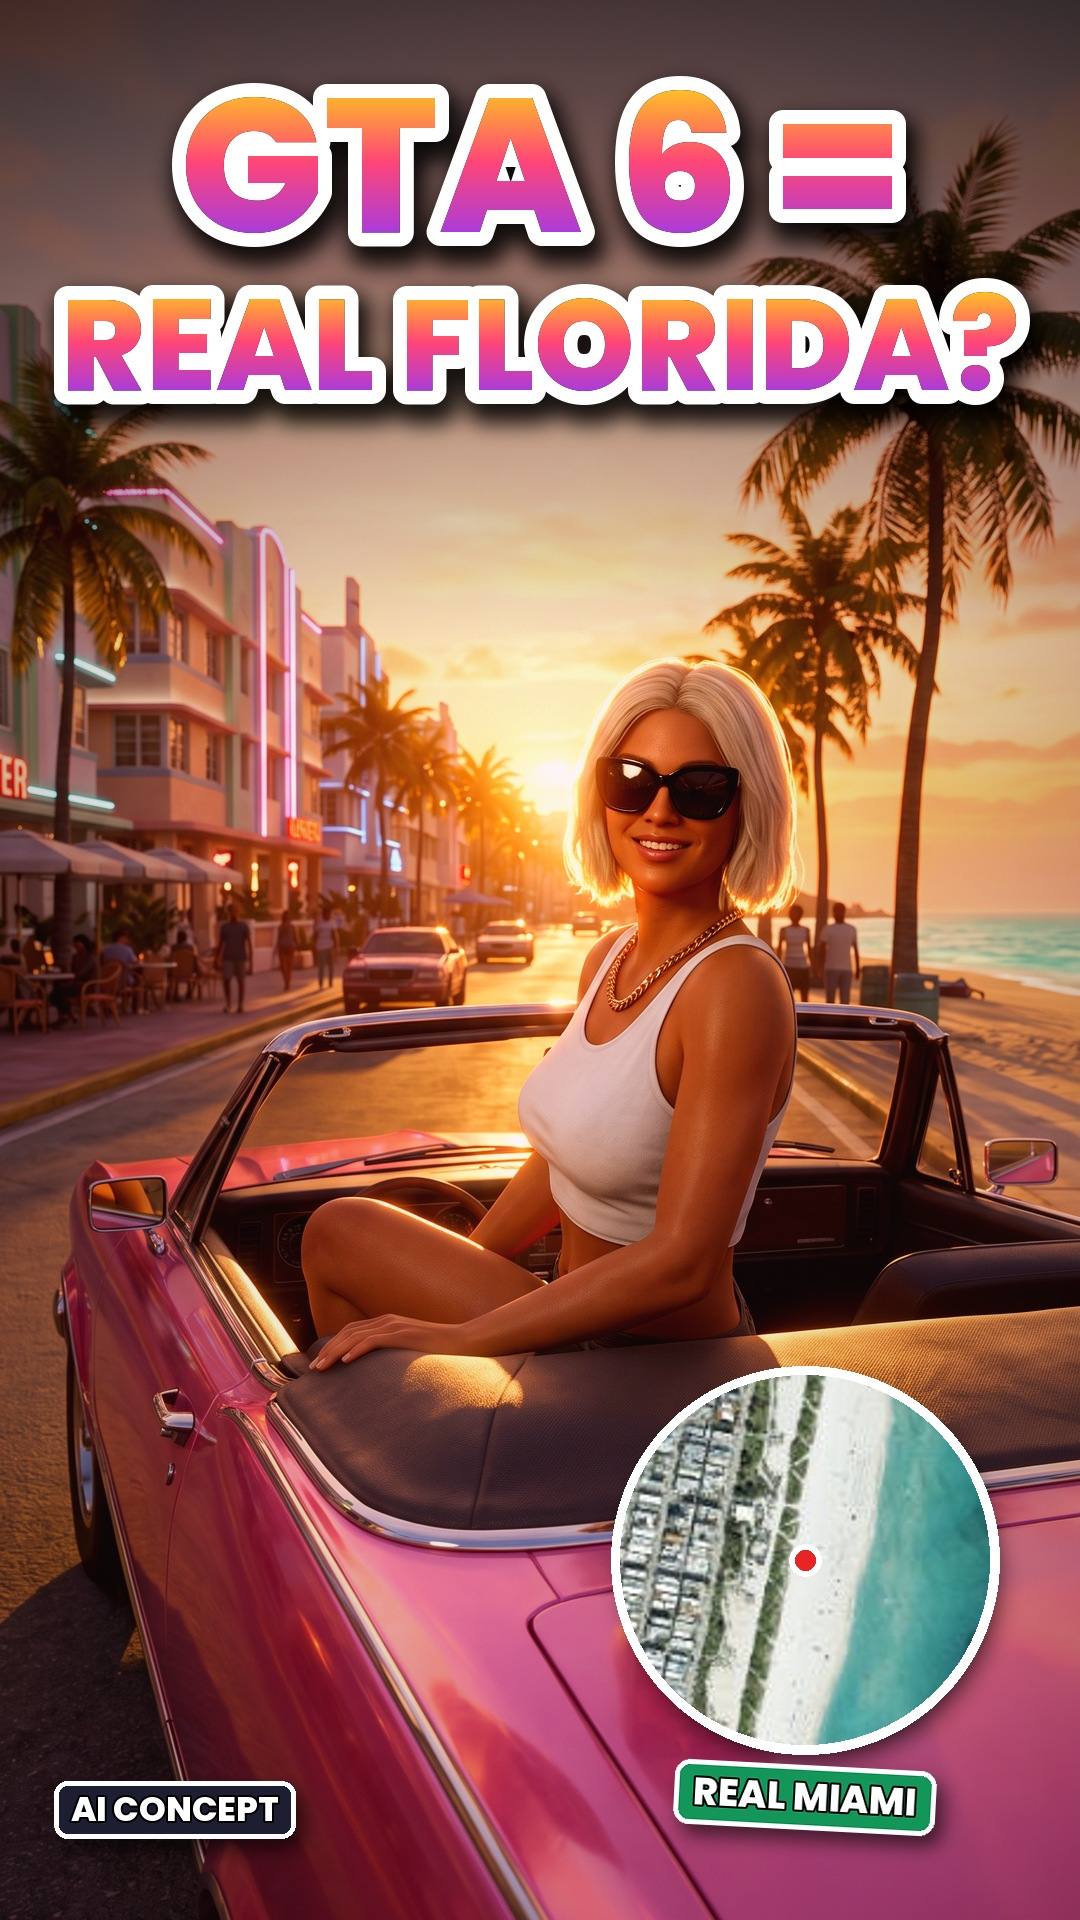
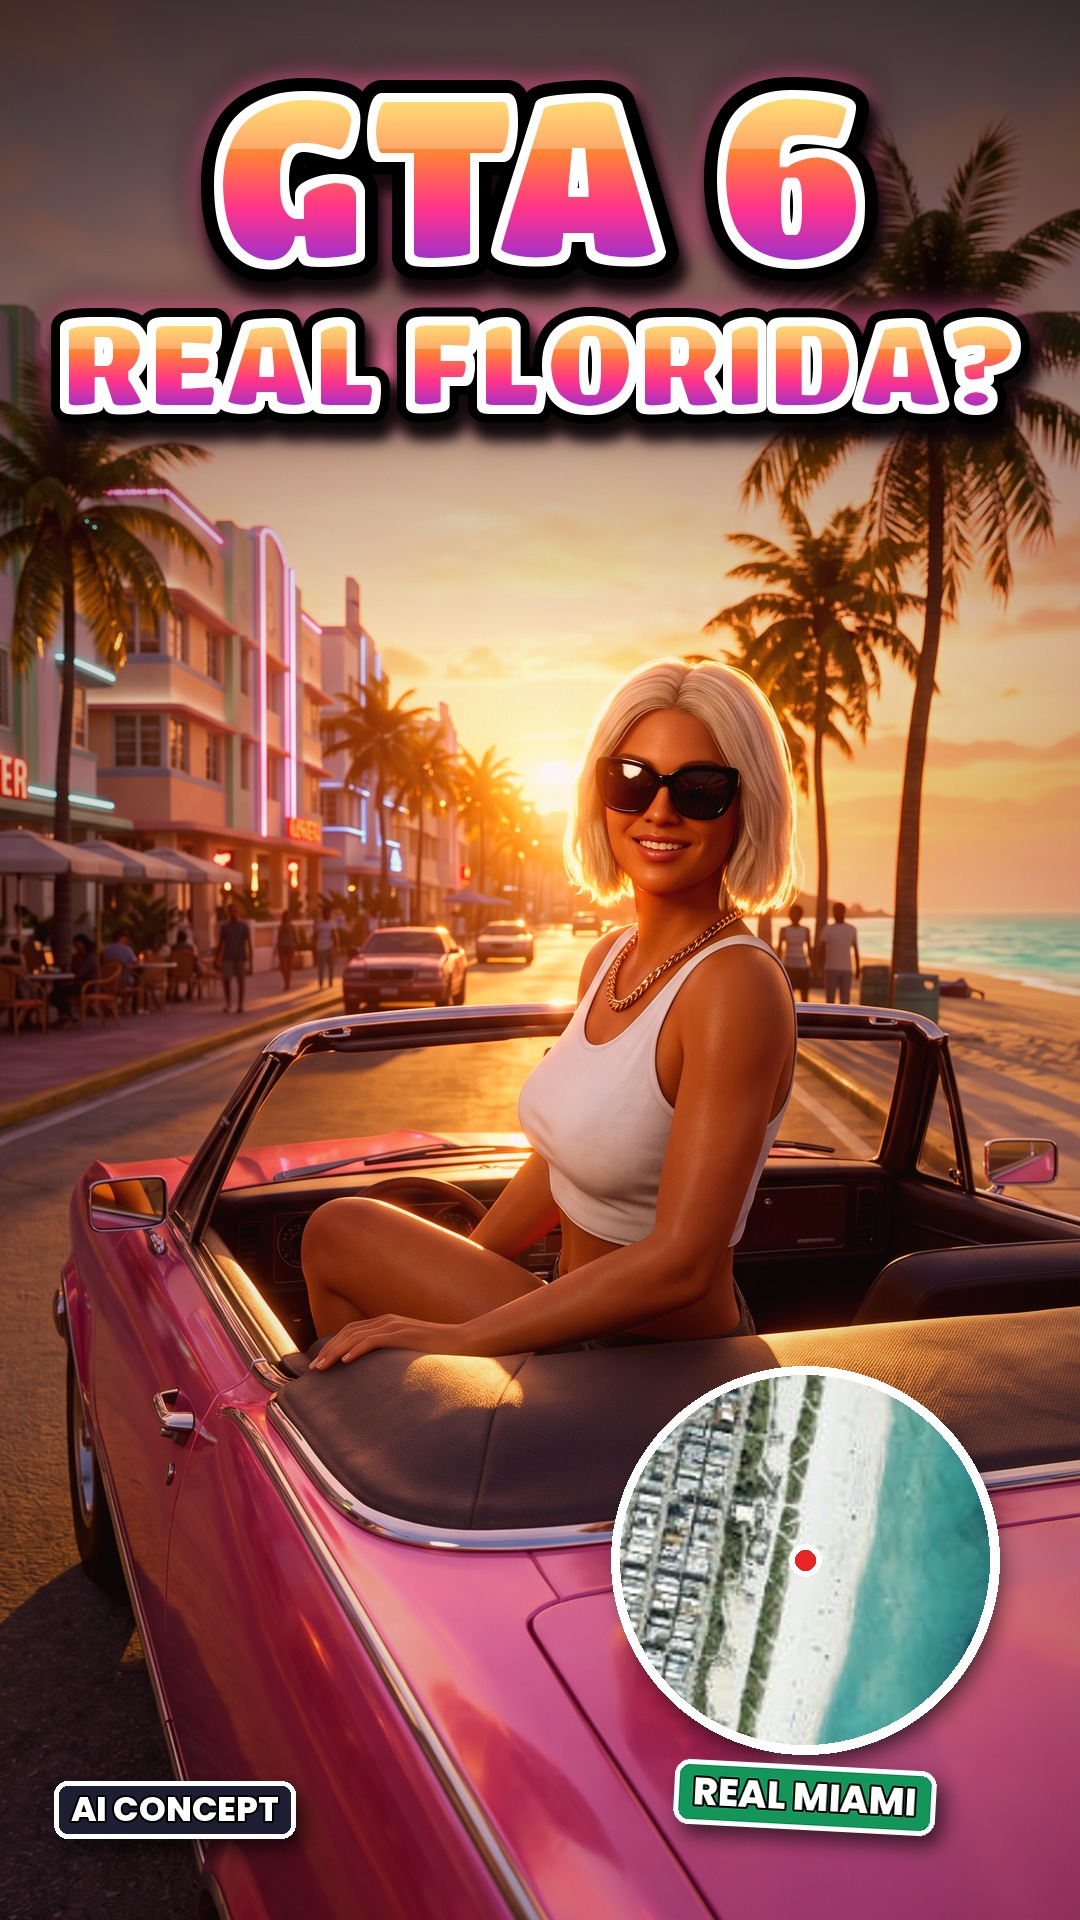
GTA 6 Short: hero cover with GTA 6-style lettering
Claude-Session: https://claude.ai/code/session_01KcWrBtThWhQ2oQ8XkNDupx

Changed region(s): [[0.0306, 0.0312, 0.9778, 0.25]]

diff --git a/map_shorts/gta6_real_places/thumb_cover_hero.py b/map_shorts/gta6_real_places/thumb_cover_hero.py
@@ -14,19 +14,28 @@ def grade(im, warm=0.10, sat=1.18, con=1.10):
     # vignette
     yy, xx = np.mgrid[0:H, 0:W]; v = 1 - 0.32 * (((xx - W / 2) / (W / 2)) ** 2 + ((yy - H / 2) / (H / 2)) ** 2) / 2
     return Image.fromarray(np.clip(a * v[..., None], 0, 255).astype(np.uint8))
-def grad_text(img, txt, cy, size, maxw=W - 110, sw=14, stops=((255, 190, 40), (255, 70, 120), (170, 60, 220))):
-    f = font(size)
-    while f.getlength(txt) > maxw: f = font(f.size - 2)
+def grad_text(img, txt, cy, size, maxw=W - 110, sw=16, stops=((255, 214, 64), (255, 132, 52), (255, 52, 140), (150, 50, 210))):
+    """GTA 6-style lettering: chunky Pricedown-like face, sunset gradient, white inner edge, thick black outline, drop glow."""
+    f = ImageFont.truetype("fonts/titan-one.ttf", int(size))
+    while f.getlength(txt) > maxw: f = ImageFont.truetype("fonts/titan-one.ttf", f.size - 2)
     m = Image.new("L", (W, H), 0); ImageDraw.Draw(m).text((W / 2, cy), txt, font=f, fill=255, anchor="mm")
-    sh = Image.new("RGBA", (W, H), (0, 0, 0, 0)); ImageDraw.Draw(sh).text((W / 2 + 6, cy + 14), txt, font=f, fill=(0, 0, 0, 220), anchor="mm", stroke_width=sw + 6, stroke_fill=(0, 0, 0, 220))
-    img.alpha_composite(sh.filter(ImageFilter.GaussianBlur(10)))
-    ImageDraw.Draw(img).text((W / 2, cy), txt, font=f, fill=(0, 0, 0, 255), anchor="mm", stroke_width=sw, stroke_fill=WHT)
+    # warm outer glow
+    glow = Image.new("RGBA", (W, H), (0, 0, 0, 0)); ImageDraw.Draw(glow).text((W / 2, cy), txt, font=f, fill=(255, 90, 160, 200), anchor="mm", stroke_width=sw + 10, stroke_fill=(255, 90, 160, 200))
+    img.alpha_composite(glow.filter(ImageFilter.GaussianBlur(16)))
+    sh = Image.new("RGBA", (W, H), (0, 0, 0, 0)); ImageDraw.Draw(sh).text((W / 2 + 5, cy + 14), txt, font=f, fill=(0, 0, 0, 230), anchor="mm", stroke_width=sw + 4, stroke_fill=(0, 0, 0, 230))
+    img.alpha_composite(sh.filter(ImageFilter.GaussianBlur(6)))
+    d = ImageDraw.Draw(img)
+    d.text((W / 2, cy), txt, font=f, fill=(0, 0, 0, 255), anchor="mm", stroke_width=sw, stroke_fill=(0, 0, 0, 255))   # black outline
+    d.text((W / 2, cy), txt, font=f, fill=WHT, anchor="mm", stroke_width=5, stroke_fill=WHT)                           # white inner edge
     bb = m.getbbox(); y0, y1 = bb[1], bb[3]
     g = np.zeros((H, W, 3), np.uint8)
     for y in range(y0, y1 + 1):
         t = (y - y0) / max(1, y1 - y0); k = t * (len(stops) - 1); i = min(int(k), len(stops) - 2); u = k - i
         g[y] = [int(stops[i][c] * (1 - u) + stops[i + 1][c] * u) for c in range(3)]
-    layer = Image.fromarray(g).convert("RGBA"); layer.putalpha(m); img.alpha_composite(layer)
+    inner = m.filter(ImageFilter.MinFilter(9))                                     # gradient sits inside the white edge
+    layer = Image.fromarray(g).convert("RGBA"); layer.putalpha(inner); img.alpha_composite(layer)
+    hi = Image.new("RGBA", (W, H), (255, 255, 255, 0)); hm = np.zeros((H, W), np.uint8); hm[y0:y0 + int((y1 - y0) * 0.32)] = 70
+    hl = Image.fromarray(hm); hl = Image.composite(hl, Image.new("L", (W, H), 0), inner); hi.putalpha(hl); img.alpha_composite(hi)
 def pill(img, txt, cx, cy, sz, bg, rot=0):
     f = font(sz); pw, ph = int(f.getlength(txt) + sz), int(sz * 1.7)
     lay = Image.new("RGBA", (pw + 40, ph + 40), (0, 0, 0, 0)); d = ImageDraw.Draw(lay)
@@ -58,7 +67,7 @@ def make_hero(src, out):
     img = grade(cover(src), warm=0.06, sat=1.22, con=1.12).convert("RGBA")
     a = np.asarray(img.convert("RGB")).astype(np.float32); g = np.clip(1 - np.linspace(0.62, 0, 640), 0, 1); a[:640] *= g[:, None, None]
     img = Image.fromarray(a.astype(np.uint8)).convert("RGBA")
-    grad_text(img, "GTA 6 =", 165, 190); grad_text(img, "REAL FLORIDA?", 345, 160)
+    grad_text(img, "GTA 6", 170, 230, sw=18); grad_text(img, "REAL FLORIDA?", 360, 150, sw=14)
     inset(img, 805, 1560, 185)
     pill(img, "AI CONCEPT", 175, 1810, 34, (30, 30, 50), 0)
     img.convert("RGB").save(out, quality=93)

diff --git a/map_shorts/gta6_real_places/publication.md b/map_shorts/gta6_real_places/publication.md
@@ -36,7 +36,7 @@ thumbnail_gta6.jpg: 'GTA 6 = REAL FLORIDA?' split cover. Left: AI neon Miami ill
 
 Cover v2 (closer to the GTA 6 trailer look, free: recomposed from the already generated in-engine frames): thumbnail_gta6_v2a.jpg (G01, bright Florida sun, pink convertible - recommended), _v2b.jpg (G07, sunset rooftop), _v2c.jpg (G00, neon dusk). Sunset-gradient title, round real Esri inset of Miami Beach. Script: thumb_cover_v2.py.
 
-Cover v3 (hero shot, closest to the GTA 6 key-art look): thumbnail_gta6_v3_hero.jpg - generic anonymous woman in sunglasses on a pink convertible at golden hour (no likeness of any game character), sunset-gradient title, round real Esri inset of Miami Beach, 'AI CONCEPT' tag. Base thumb_base_hero.jpg (gen_hero.py), composition thumb_cover_hero.py.
+Cover v3 (hero shot, closest to the GTA 6 key-art look): thumbnail_gta6_v3_hero.jpg - generic anonymous woman in sunglasses on a pink convertible at golden hour (no likeness of any game character), title lettered in a chunky GTA 6-style face (Titan One, OFL, fonts/titan-one.ttf) with sunset gradient, white inner edge and thick black outline (inspired by the look, not a copy of the official logo), round real Esri inset of Miami Beach, 'AI CONCEPT' tag. Base thumb_base_hero.jpg (gen_hero.py), composition thumb_cover_hero.py.
 
 ## Cost
 Frames $0.36 + Grok clips $0.864 (8 clips, 3 tests included) + Lumean 0.34 + 0.37 RUB (voice re-recorded with 'reportedly' wording). Cover base image $0.04 (first, not used) + hero cover base $0.04 (v3). Failed: Veo 3.1 Lite (server error, not charged).
